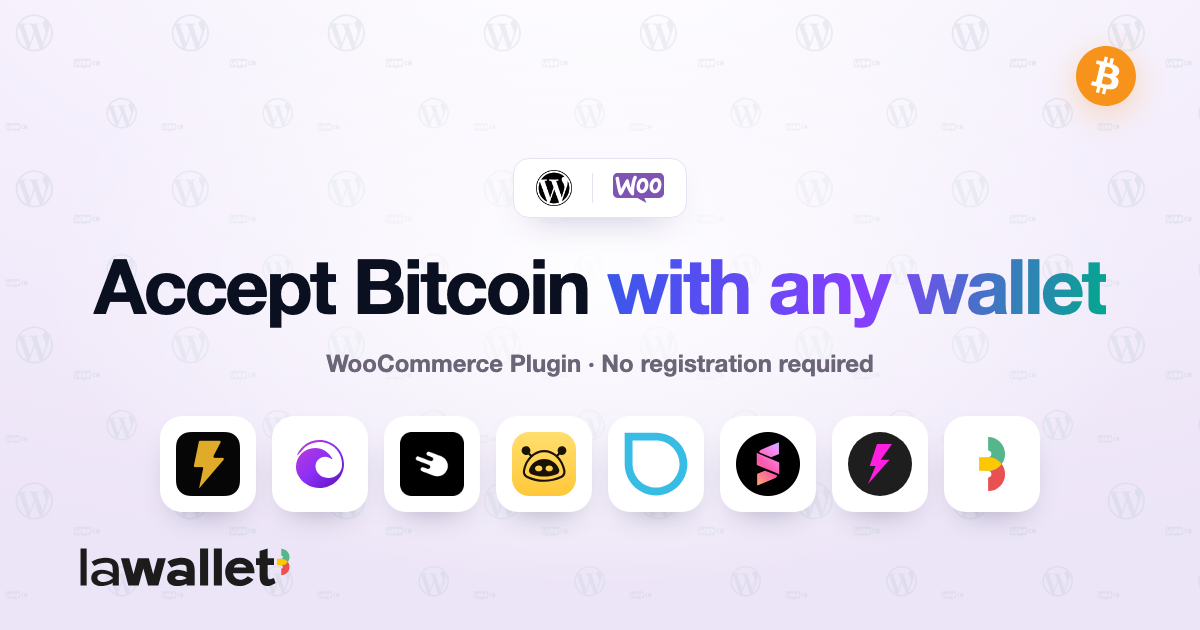
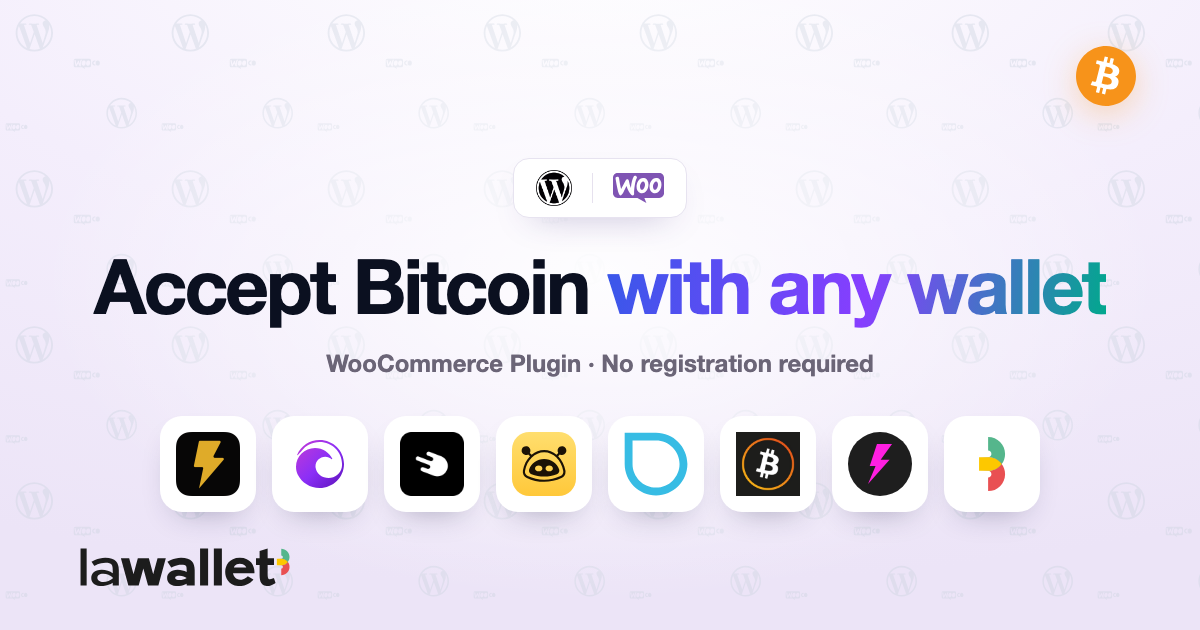
Landing: replace Spark with Blink (good for merchants)
- Add circular-cropped Blink logo (assets/wallets/blink.png).
- Swap Spark -> Blink in the wallet showcase (subtitle "Good for merchants").
- Swap the wallet chip in the D/E social cards and re-render.

Changed region(s): [[0.5858, 0.6635, 0.6783, 0.7841]]

diff --git a/landing/index.html b/landing/index.html
@@ -826,7 +826,7 @@
               <li class="witem" data-i="2" style="--accent:#cfd3da"><span class="ic"><img src="assets/wallets/strike.png" alt="Strike" /></span><span class="wt"><b>Strike</b><i>Most popular</i></span></li>
               <li class="witem" data-i="3" style="--accent:#FFC83A"><span class="ic"><img src="assets/wallets/alby.svg" alt="Alby" /></span><span class="wt"><b>Alby</b><i>Self custody</i></span></li>
               <li class="witem" data-i="4" style="--accent:#37BCE4"><span class="ic"><img src="assets/wallets/coincorner.svg" alt="CoinCorner" /></span><span class="wt"><b>CoinCorner</b><i>Fiat integrated</i></span></li>
-              <li class="witem" data-i="5" style="--accent:#0EA5E9"><span class="ic"><img src="assets/wallets/spark.png" alt="Spark" /></span><span class="wt"><b>Spark</b><i>Stablecoin ready</i></span></li>
+              <li class="witem" data-i="5" style="--accent:#FF6B00"><span class="ic"><img src="assets/wallets/blink.png" alt="Blink" /></span><span class="wt"><b>Blink</b><i>Good for merchants</i></span></li>
               <li class="witem" data-i="6" style="--accent:#EC4899"><span class="ic"><img src="assets/wallets/lnbits.svg" alt="LNbits" /></span><span class="wt"><b>LNbits</b><i>Own infra</i></span></li>
               <li class="witem" data-i="7" style="--accent:#fdc800"><span class="ic"><img src="assets/lawallet-icon.svg" alt="LaWallet" /></span><span class="wt"><b>LaWallet</b><i>Own Lightning addresses</i></span></li>
             </ul>
@@ -839,7 +839,7 @@
             <div class="wpanel" data-i="2" style="--accent:#cfd3da"><div class="wbig"><img src="assets/wallets/strike.png" alt="Strike" /></div><div class="wpname">Strike</div><span class="wpsub">Most popular</span><p class="wpdesc">One of the most widely used Bitcoin apps, with Lightning Addresses across many regions.</p></div>
             <div class="wpanel" data-i="3" style="--accent:#FFC83A"><div class="wbig"><img src="assets/wallets/alby.svg" alt="Alby" /></div><div class="wpname">Alby</div><span class="wpsub">Self custody</span><p class="wpdesc">A self-custodial Lightning wallet and browser extension for the open web.</p></div>
             <div class="wpanel" data-i="4" style="--accent:#37BCE4"><div class="wbig"><img src="assets/wallets/coincorner.svg" alt="CoinCorner" /></div><div class="wpname">CoinCorner</div><span class="wpsub">Fiat integrated</span><p class="wpdesc">Buy, sell and spend Bitcoin with a built-in Lightning Address.</p></div>
-            <div class="wpanel" data-i="5" style="--accent:#0EA5E9"><div class="wbig"><img src="assets/wallets/spark.png" alt="Spark" /></div><div class="wpname">Spark</div><span class="wpsub">Stablecoin ready</span><p class="wpdesc">A modern self-custodial wallet built for Lightning and stablecoins.</p></div>
+            <div class="wpanel" data-i="5" style="--accent:#FF6B00"><div class="wbig"><img src="assets/wallets/blink.png" alt="Blink" /></div><div class="wpname">Blink</div><span class="wpsub">Good for merchants</span><p class="wpdesc">A popular Bitcoin wallet &mdash; great for merchants and everyday payments.</p></div>
             <div class="wpanel" data-i="6" style="--accent:#EC4899"><div class="wbig"><img src="assets/wallets/lnbits.svg" alt="LNbits" /></div><div class="wpname">LNbits</div><span class="wpsub">Own infra</span><p class="wpdesc">Run your own Lightning accounts and addresses on your infrastructure.</p></div>
             <div class="wpanel" data-i="7" style="--accent:#fdc800"><div class="wbig"><img src="assets/lawallet-icon.svg" alt="LaWallet" /></div><div class="wpname">LaWallet</div><span class="wpsub">Own Lightning addresses</span><p class="wpdesc">Open-source wallet &mdash; give your whole community Lightning Addresses on your domain.</p></div>
           </div>

diff --git a/landing/og-e.html b/landing/og-e.html
@@ -31,7 +31,7 @@
   <span class="chip" style="top:50px;right:336px;transform:rotate(-4deg)"><img src="assets/wallets/strike.png" alt="" /></span>
   <span class="chip" style="top:58px;right:74px;transform:rotate(8deg)"><img src="assets/wallets/alby.svg" alt="" /></span>
   <span class="chip" style="top:268px;right:44px;transform:rotate(-6deg)"><img src="assets/wallets/coincorner.svg" alt="" /></span>
-  <span class="chip" style="bottom:140px;right:150px;transform:rotate(6deg)"><img src="assets/wallets/spark.png" alt="" /></span>
+  <span class="chip" style="bottom:140px;right:150px;transform:rotate(6deg)"><img src="assets/wallets/blink.png" alt="" /></span>
   <span class="chip" style="bottom:132px;left:150px;transform:rotate(-5deg)"><img src="assets/wallets/lnbits.svg" alt="" /></span>
   <span class="chip" style="top:270px;left:44px;transform:rotate(7deg)"><img src="assets/lawallet-icon.svg" alt="" /></span>
 

diff --git a/landing/og-d.html b/landing/og-d.html
@@ -42,7 +42,7 @@
       <span class="chip"><img src="assets/wallets/strike.png" alt="Strike" /></span>
       <span class="chip"><img src="assets/wallets/alby.svg" alt="Alby" /></span>
       <span class="chip"><img src="assets/wallets/coincorner.svg" alt="CoinCorner" /></span>
-      <span class="chip"><img src="assets/wallets/spark.png" alt="Spark" /></span>
+      <span class="chip"><img src="assets/wallets/blink.png" alt="Blink" /></span>
       <span class="chip"><img src="assets/wallets/lnbits.svg" alt="LNbits" /></span>
       <span class="chip"><img src="assets/lawallet-icon.svg" alt="LaWallet" /></span>
     </div>

diff --git a/landing/SOCIAL-CARDS.md b/landing/SOCIAL-CARDS.md
@@ -39,7 +39,7 @@ The live Open Graph / Twitter card is set in `index.html`
   `width/height ~80–96; border-radius 20; background:#fff; padding 14–16;`
   `img { object-fit: contain; max-width/height: 100% }`. Sources in `assets/wallets/`
   (`wallet-of-satoshi.png`, `primal.svg`, `strike.png`, `alby.svg`, `coincorner.svg`,
-  `spark.png`, `lnbits.svg`) + `assets/lawallet-icon.svg`.
+  `blink.png`, `lnbits.svg`) + `assets/lawallet-icon.svg`.
 - **WooCommerce pill** — `#f4ecfd` bg, `#e1cffb` border, `#6d28d9` text, label "WooCommerce Plugin".
 - **Bitcoin accent** — `assets/bitcoin.svg` (~60–70px) in a corner.
 - **LaWallet logo** — `assets/lawallet-logo.svg` (dark wordmark, trimmed), bottom-left, height ~38.
